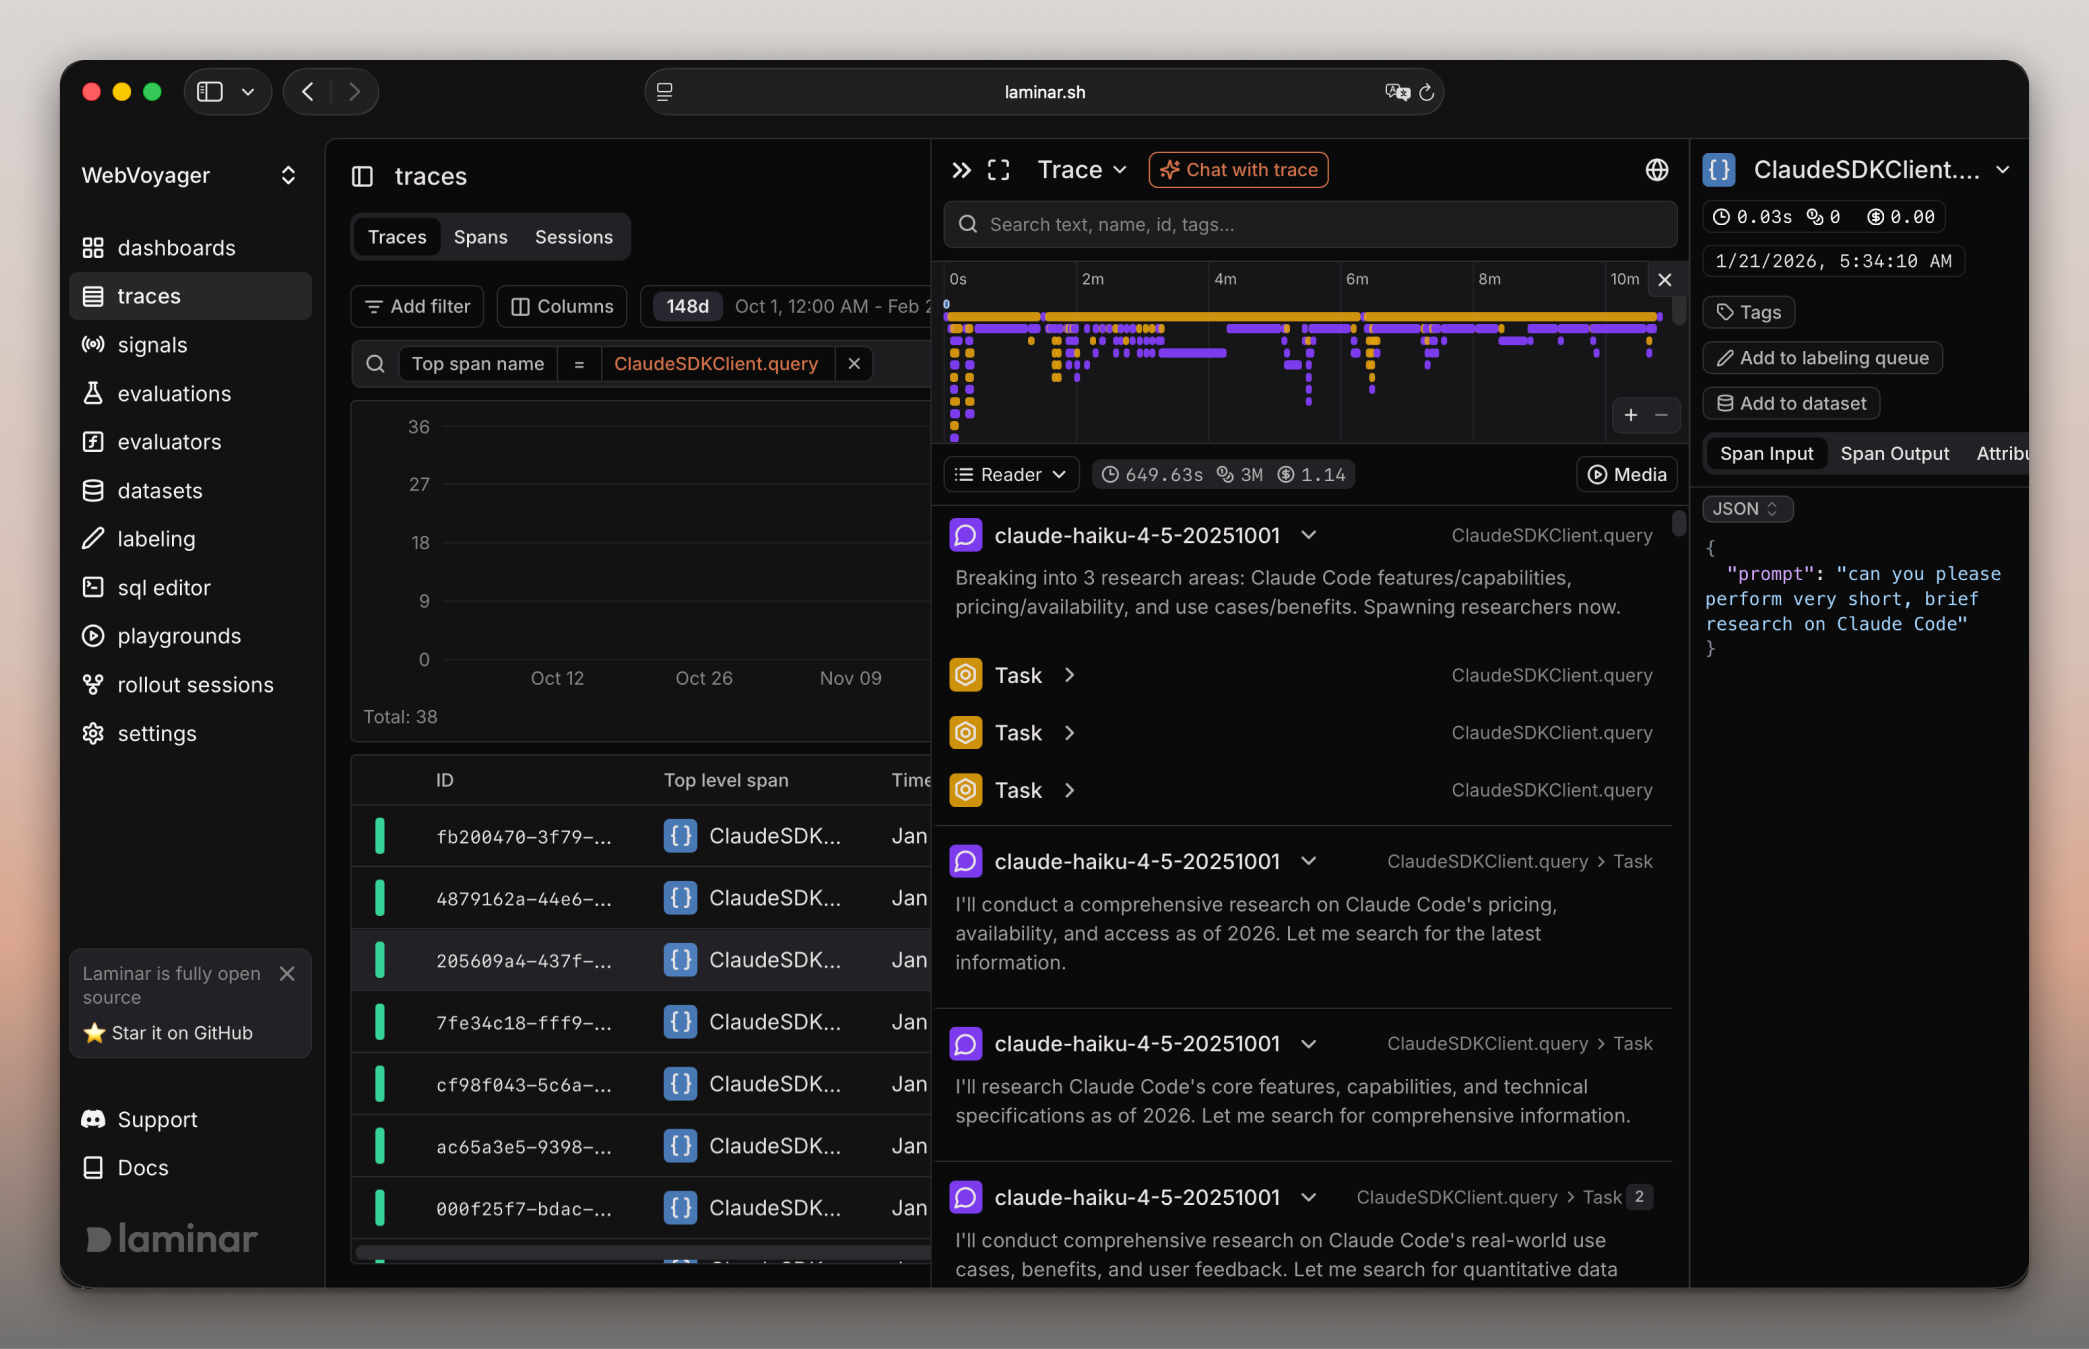
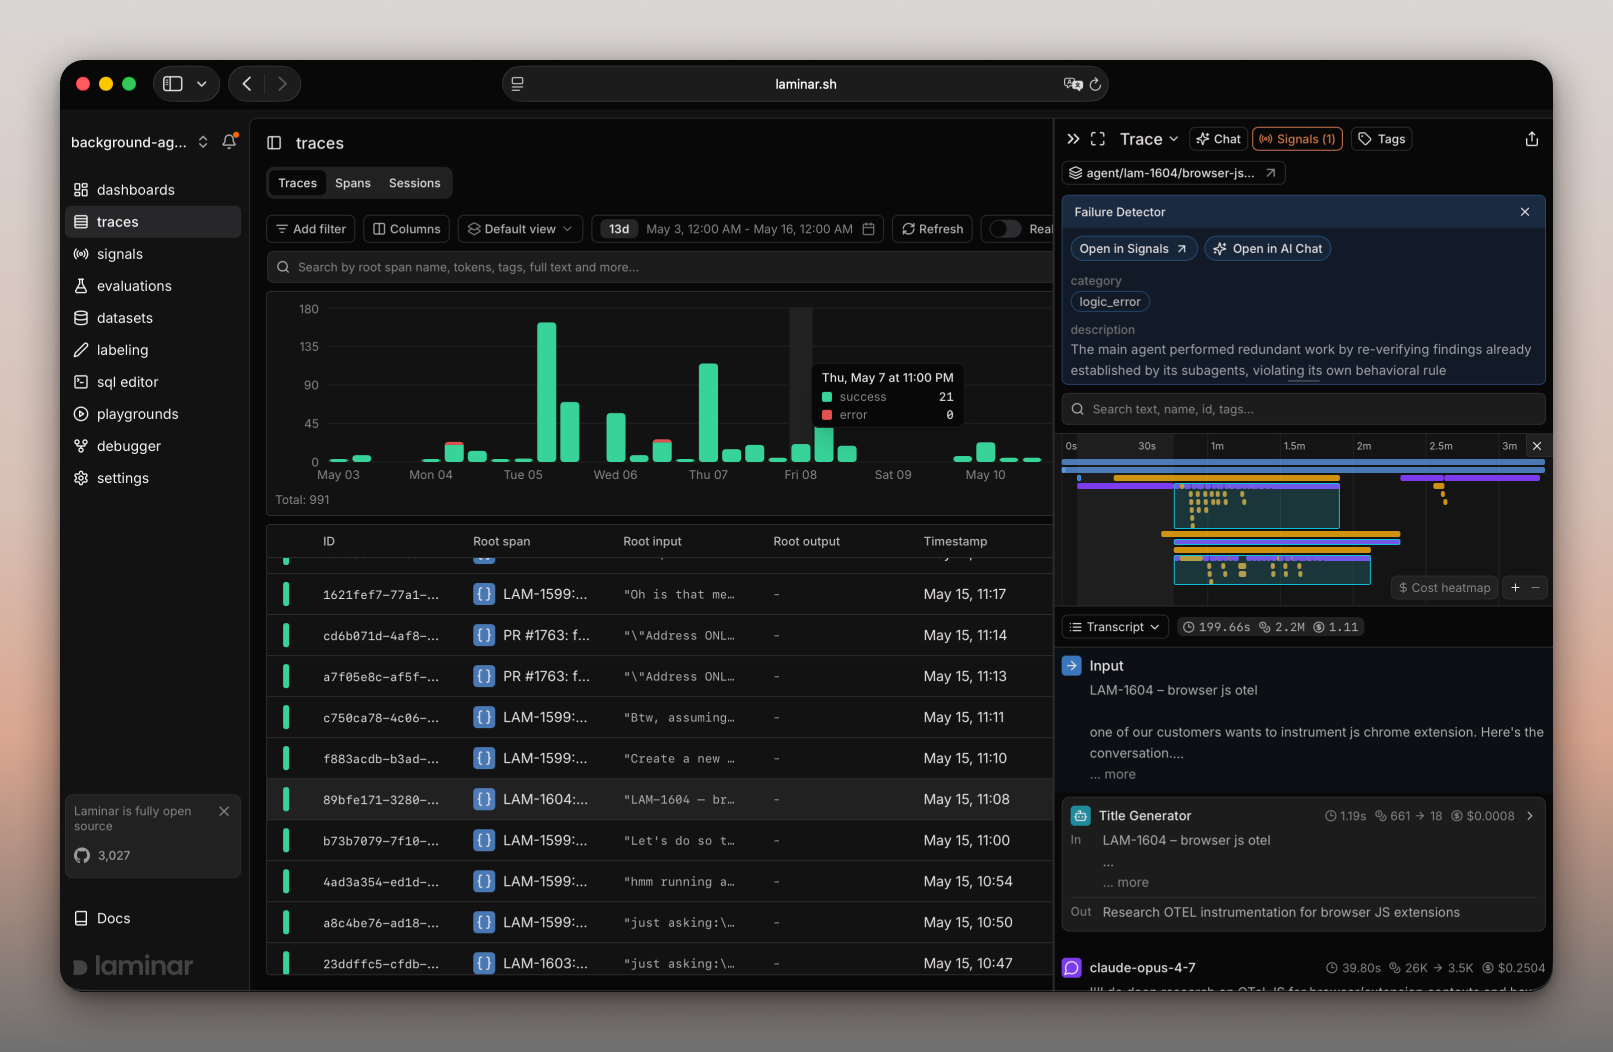
refactor: update README (#1908)
* refactor: update README

* feat: add notifications

* refactor:

* wording

* chore: update laminar banner image

* refactor: replace trace screenshot

---------

Pull request: refactor: update README
<!-- CURSOR_SUMMARY -->
> [!NOTE]
> **Low Risk**
> Documentation-only changes with no runtime, security, or data-path impact.
> 
> **Overview**
> Updates the **README** marketing copy to match current product positioning—no application code changes.
> 
> Adds a **LinkedIn** badge alongside the existing social links. The feature checklist is reshaped: **Signals** gets its own top-level item (with `signals/introduction` docs and Slack alerting bullets), replacing the older **AI monitoring** wording. The standalone **SQL editor** bullet is removed in favor of a new **MCP / CLI** section that highlights SQL access and letting a coding agent debug from traces. Under performance, a **20x trace compression** bullet links to the blog post. The Documentation line gets a small grammar fix (“the full documentation”).
> 
> <sup>Reviewed by [Cursor Bugbot](https://cursor.com/bugbot) for commit 3e2127ea637a031b8c0d165a5b3d7fa3712467e1. Bugbot is set up for automated code reviews on this repo. Configure [here](https://www.cursor.com/dashboard/bugbot).</sup>
<!-- /CURSOR_SUMMARY -->

<!-- This is an auto-generated description by cubic. -->
[…]

diff --git a/README.md b/README.md
@@ -1,5 +1,6 @@
 <a href="https://www.ycombinator.com/companies/laminar-ai">![Static Badge](https://img.shields.io/badge/Y%20Combinator-S24-orange)</a>
 <a href="https://x.com/lmnrai">![X (formerly Twitter) Follow](https://img.shields.io/twitter/follow/lmnrai)</a>
+<a href="https://www.linkedin.com/company/lmnr-ai">![LinkedIn](https://img.shields.io/badge/-LinkedIn-blue?style=flat-square&logo=Linkedin&logoColor=white&link=https://www.linkedin.com/company/lmnr-ai)</a>
 <a href="https://discord.gg/nNFUUDAKub"> ![Static Badge](https://img.shields.io/badge/Join_Discord-464646?&logo=discord&logoColor=5865F2) </a>
 
 ![Laminar banner](./images/laminar-banner.png)
@@ -10,19 +11,22 @@
 
 - [x] Tracing. [Docs](https://laminar.sh/docs/tracing/introduction)
     - [x] OpenTelemetry-native powerful tracing SDK - 1 line of code to automatically trace **Vercel AI SDK, Browser Use, Stagehand, LangChain, OpenAI, Anthropic, Gemini, and more**.
+- [x] Signals. [Docs](https://laminar.sh/docs/signals/introduction)
+    - [x] Describe any behavior of your agent that you want to track in plain English (e.g. "agent is stuck in a loop")
+    - [x] Laminar reads every agent run and pings you in Slack when it happens.
 - [x] Evals. [Docs](https://laminar.sh/docs/evaluations/introduction)
     - [x] Unopinionated, extensible SDK and CLI for running evals locally or in CI/CD pipeline.
     - [x] UI for visualizing evals and comparing results.
-- [x] AI monitoring. [Docs](https://laminar.sh/docs/signals)
-    - [x] Define events with natural language descriptions to track issues, logical errors, and custom behavior of your agent.
-- [x] SQL access to all data. [Docs](https://laminar.sh/docs/platform/sql-editor)
-    - [x] Query traces, metrics, and events with a built-in SQL editor. Bulk create datasets from queries. Available via API.
+- [x] [MCP](https://laminar.sh/docs/platform/mcp) / [CLI](https://laminar.sh/docs/platform/cli) access for your coding agent 
+    - [x] Query traces, spans, metrics, and events with SQL
+    - [x] Let your coding agent investigate and debug issues based on your traces
 - [x] Dashboards. [Docs](https://laminar.sh/docs/custom-dashboards/overview)
     - [x] Powerful dashboard builder for traces, metrics, and events with support of custom SQL queries.
 - [x] Data annotation & Datasets. [Docs](https://laminar.sh/docs/datasets/introduction)
     - [x] Custom data rendering UI for fast data annotation and dataset creation for evals.
 - [x] Extremely high performance.
     - [x] Written in Rust 🦀
+    - [x] 20x trace compression for efficient ingestion and storage. Read more about it [here](https://laminar.sh/blog/laminar-20x-agent-trace-compression).
     - [x] Custom realtime engine for viewing traces as they happen.
     - [x] Ultra-fast full-text search over span data.
     - [x] gRPC exporter for tracing data.
@@ -31,7 +35,7 @@
 
 ## Documentation
 
-Check out full documentation here [laminar.sh/docs](https://laminar.sh/docs).
+Check out the full documentation here [laminar.sh/docs](https://laminar.sh/docs).
 
 ## Getting started
 